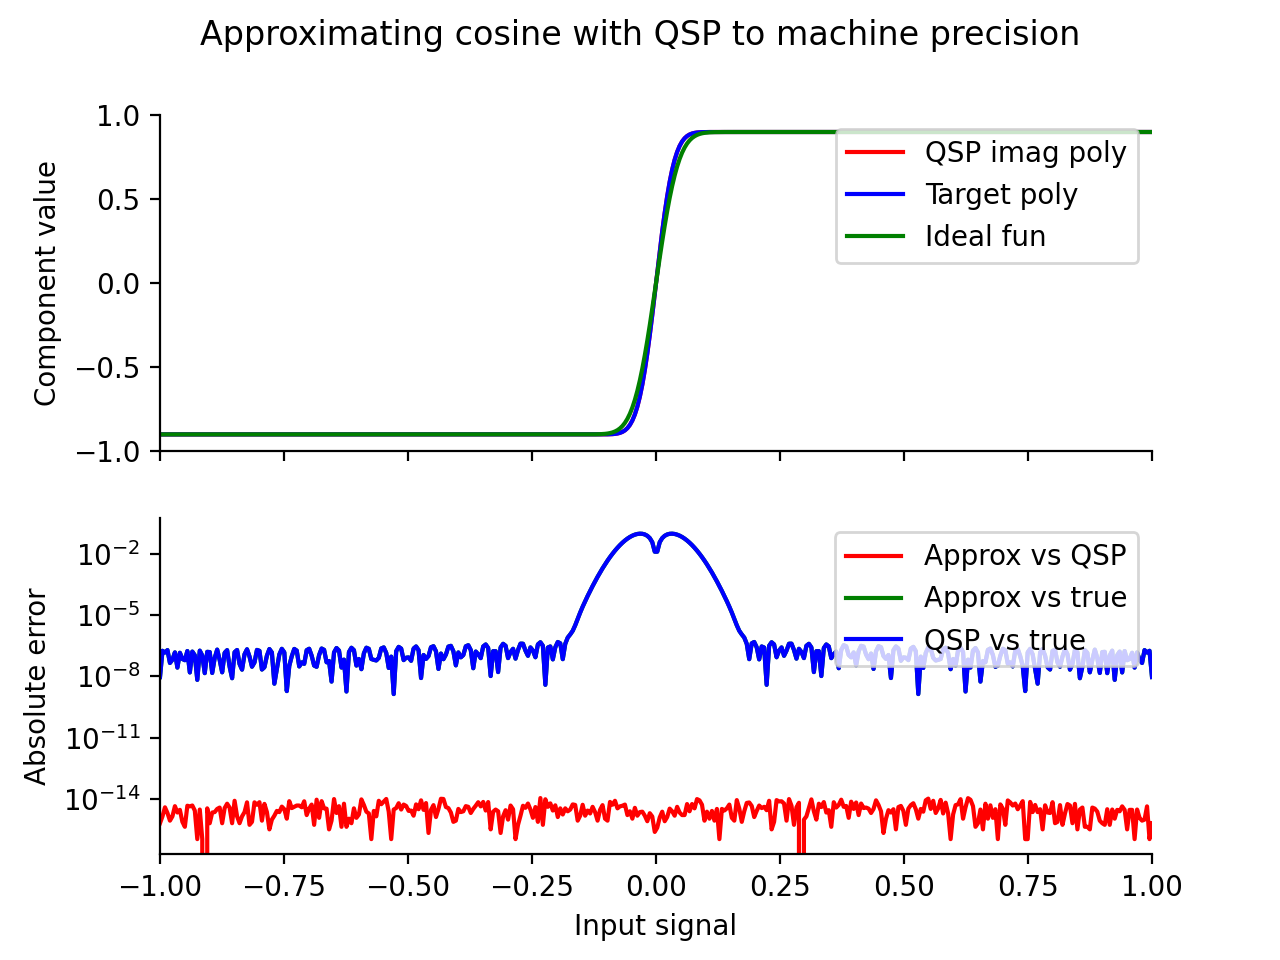
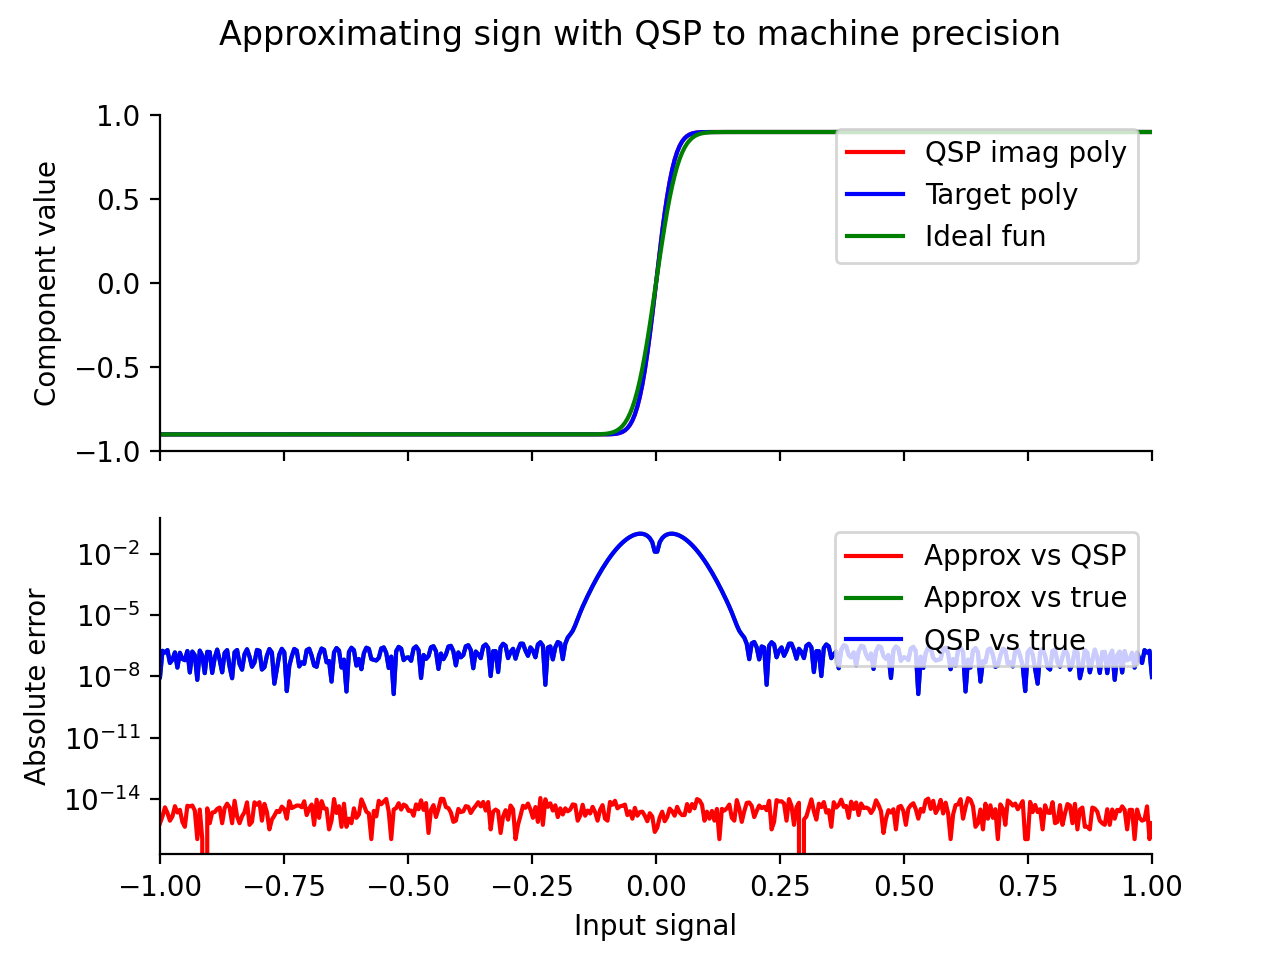
Update README for clarity.

Changed region(s): [[0.1562, 0.0, 0.8438, 0.0625]]

diff --git a/pyqsp/sym_qsp_plotting.py b/pyqsp/sym_qsp_plotting.py
@@ -223,7 +223,7 @@ def main():
 
     # Generate simultaneous plots.
     fig, axs = plt.subplots(2,sharex=True)
-    fig.suptitle('Approximating cosine with QSP to machine precision')
+    fig.suptitle('Approximating sign with QSP to machine precision')
 
     # Standard plotting of relevant components.
     axs[0].plot(samples, im_vals, 'r', label="QSP imag poly")

diff --git a/README.md b/README.md
@@ -185,7 +185,7 @@ As in the case of trigonometric cosine, the step function's approximation is als
 
 > :round_pushpin: The final plot given above is generated in a fairly simple way, but relies on a few, user-programmable inputs which we discuss with a subsection of the code given in `pyqsp/sym_qsp_plotting.py` below. The code given here is prefaced in the original file by proper imports, and the QSP phases generated by the Newton solver are used to generate the plots with further methods.
 >
-> :caution: Note that the arguments `chebyshev_basis` (a Boolean) and `cheb_samples` are both used here. The `chebyshev_basis` flag ensures that the behind-the-scenes optimization methods used in finding polynomial approximations work in the more stable Chebyshev basis, and that Chebyshev basis coefficients are returned. The `cheb_samples` argument chooses the number of Chebyshev node interpolation points with which this classical fit is computed; to prevent aliasing issues *it is best to choose `cheb_samples` to be greater than `degree`, which specifies the degree of the polynomial approximant*. Here `delta` scales as the approximate inverse gap between the regions where the desired function takes the extreme values 1 and -1.
+> :warning: Note that the arguments `chebyshev_basis` (a Boolean) and `cheb_samples` are both used here. The `chebyshev_basis` flag ensures that the behind-the-scenes optimization methods used in finding polynomial approximations work in the more stable Chebyshev basis, and that Chebyshev basis coefficients are returned. The `cheb_samples` argument chooses the number of Chebyshev node interpolation points with which this classical fit is computed; to prevent aliasing issues *it is best to choose `cheb_samples` to be greater than `degree`, which specifies the degree of the polynomial approximant*. Here `delta` scales as the approximate inverse gap between the regions where the desired function takes the extreme values 1 and -1.
 
 ```python
 # Generate Chebyshev coefs for approx sign function.
@@ -197,14 +197,14 @@ pcoefs = pg.generate(
         cheb_samples=250)
 pcoefs = pcoefs.coef
 
-# Instantiate anonymous function using generated coefs.
+# As an example, generate polynomial approximation as a callable function using above-computed coefs.
 sign_fun = lambda x: np.polynomial.chebyshev.chebval(x, pcoefs)
 
 # Slice out non-trivial coefficients; here degree=161, which has parity 1.
 parity = 1
 coef = pcoefs[parity::2]
 
-# Iteratively optimize QSP protocol phases using Newton solver.
+# Iteratively optimize QSP phases using Newton solver, which takes parity-reduced Chebyshev coefs.
 (phases, err, total_iter, qsp_seq_opt) = sym_qsp_opt.newton_Solver(coef, parity, crit=1e-12)
 ```
 
